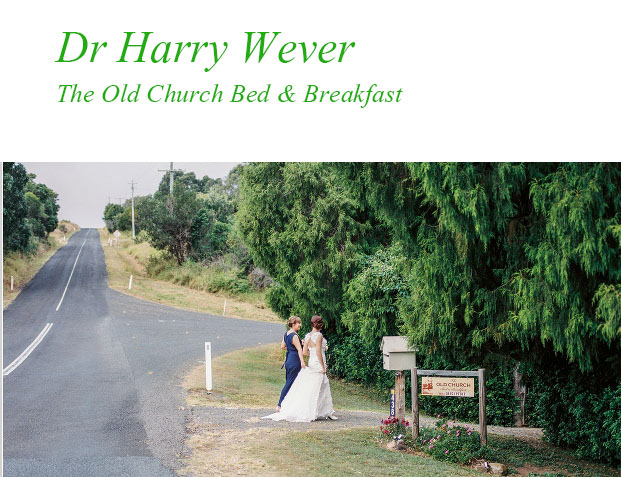
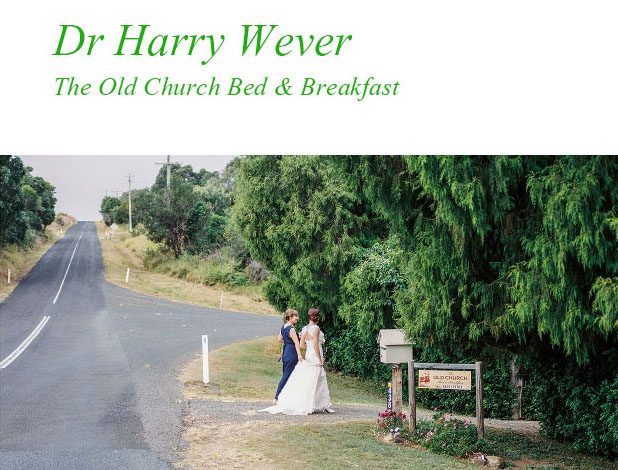
mick:  - remove main image from contact page  - image adjustments

diff --git a/index.html b/index.html
@@ -82,9 +82,9 @@ $(function(){
 </header>
 <div id="slides">
   <div class="slides_container">
-    <div class=""><a href="#"><img src="images/titlebox.jpg" alt="Dr Harry, Candidate for Scenic Rim Major"></a></div>
-    <div class=""><a href="#"><img src="images/max.jpg" alt="Dr Harry and Max"></a></div>
-    <div class=""><a href="#"><img src="images/countryroad.jpg" alt="Weddings at the Old Church Boonah"></a></div>
+    <div class=""><img src="images/titlebox.jpg" alt="Dr Harry, Candidate for Scenic Rim Major"></div>
+    <div class=""><img src="images/max.jpg" alt="Dr Harry and Max"></div>
+    <div class=""><img src="images/countryroad.jpg" alt="Weddings at the Old Church Boonah"></div>
   </div>
 </div>
 <div class=" container_12">

diff --git a/contact.html b/contact.html
@@ -76,12 +76,6 @@ $(function(){
 </header>
 <div class=" container_12">
 	<div class="wrapper">
-        <div class="grid_2">&nbsp;</div>
-		<div class="grid_10"><img src="images/titlebox.jpg" alt="Dr Harry, Candidate for Scenic Rim Major" class="img"></div>
-	</div>
-</div>
-<div class=" container_12">
-	<div class="wrapper">
 		<div class="grid_12">
 			<div class="text1 pad">Working Together for a Better future</div>
 		</div>

diff --git a/aboutdrharry.html b/aboutdrharry.html
@@ -71,8 +71,7 @@ $(function(){
 </header>
 <div class=" container_12">
 	<div class="wrapper">
-        <div class="grid_2">&nbsp;</div>
-		<div class="grid_10"><img src="images/titlebox.jpg" alt="Dr Harry, Candidate for Scenic Rim Major" class="img"></div>
+		<div class="grid_12"><img src="images/titlebox.jpg" alt="Dr Harry, Candidate for Scenic Rim Major" class="img"></div>
 	</div>
 </div>
 <div class=" container_12">
